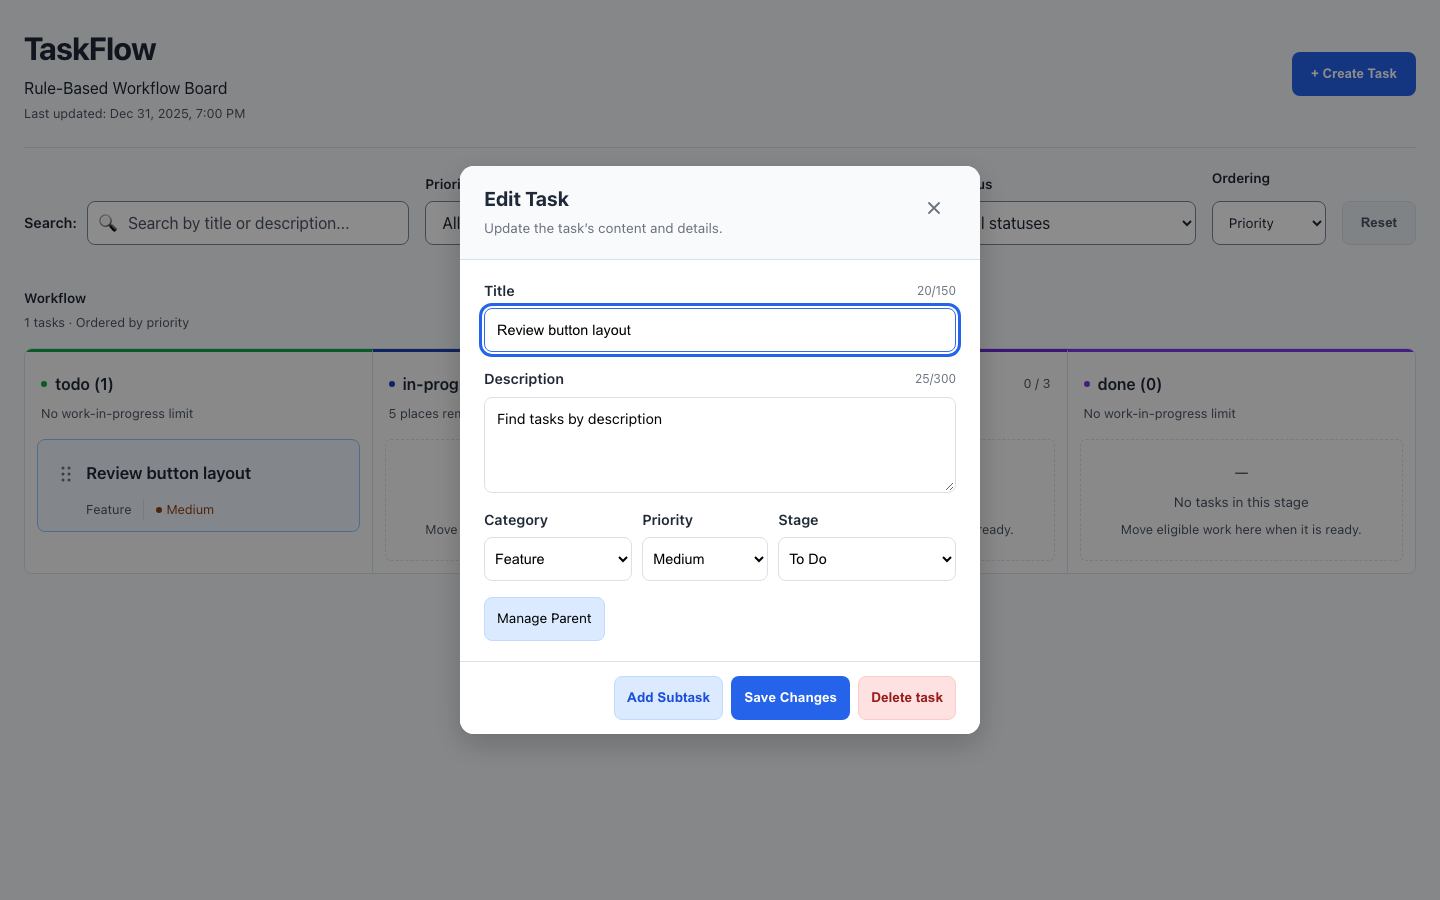
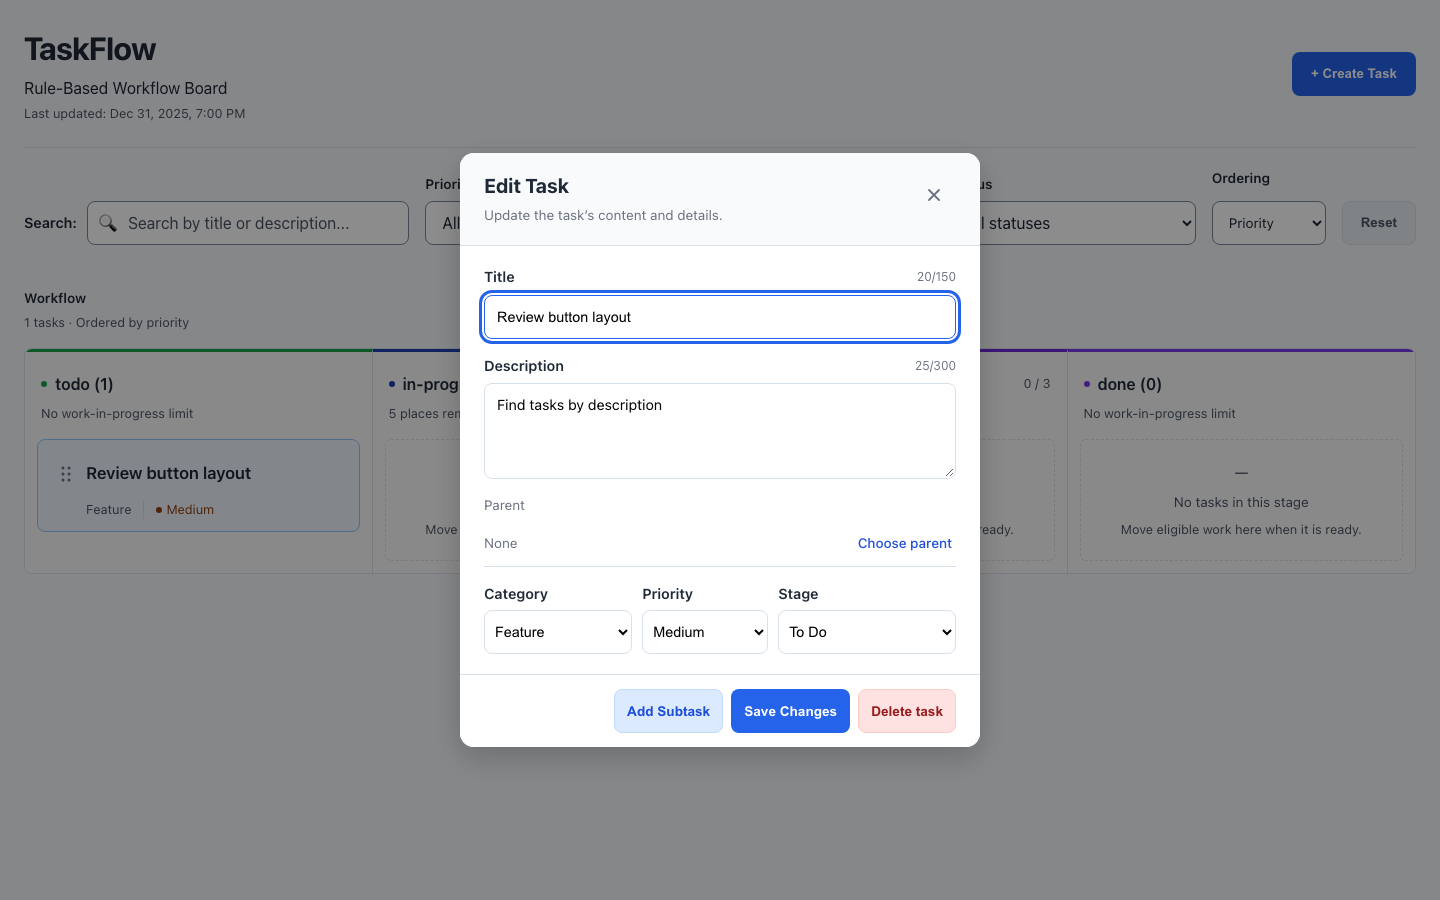
polish: use compact parent actions and preserve linked chip

diff --git a/e2e/details.spec.ts b/e2e/details.spec.ts
@@ -19,9 +19,9 @@ test("read-first details, child management and guarded editing preserve saved wo
   await expect(detail.getByRole("button",{name:"Add SubTask to Release plan"})).toBeFocused();
   await detail.getByRole("button",{name:"Open subtask Review release"}).click();
   const child=page.getByRole("dialog",{name:"Review release",exact:true});
-  await expect(child.getByRole("button",{name:"Manage parent of Review release"})).toHaveCount(0);
+  await expect(child.getByRole("button",{name:"Change parent of Review release"})).toHaveCount(0);
   await child.getByRole("button",{name:"Edit task",exact:true}).click();
-  await page.getByRole("button",{name:"Manage parent of Review release"}).click();
+  await page.getByRole("button",{name:"Change parent of Review release"}).click();
   await page.getByLabel("Parent",{exact:true}).selectOption("");await page.keyboard.press("Escape");
   await expect(page.getByRole("dialog",{name:"Discard Relationship Changes?"})).toBeVisible();
   await page.getByRole("button",{name:"Keep Editing",exact:true}).click();
@@ -117,13 +117,13 @@ test("parent context is consistent and editor stage changes move saved work with
   const badge=page.getByRole("button",{name:"Open parent Consistent parent",exact:true});
   await expect(badge).toHaveClass("editor-parent-pill");
   expect(await badge.evaluate(node=>!!node.closest(".task-parent-field"))).toBe(true);
-  await expect(page.getByRole("button",{name:"Manage parent of Consistent child",exact:true})).toHaveCount(0);
+  await expect(page.getByRole("button",{name:"Change parent of Consistent child",exact:true})).toHaveCount(0);
   const style=await badge.evaluate(node=>({background:getComputedStyle(node).backgroundColor,border:getComputedStyle(node).borderRadius}));
   await page.getByRole("button",{name:"Edit task",exact:true}).click();
   await expect(badge).toHaveClass("editor-parent-pill");
   expect(await badge.evaluate(node=>!!node.closest(".task-parent-field"))).toBe(true);
   expect(await badge.evaluate(node=>({background:getComputedStyle(node).backgroundColor,border:getComputedStyle(node).borderRadius}))).toEqual(style);
-  await expect(page.getByRole("button",{name:"Manage parent of Consistent child",exact:true})).toBeVisible();
+  await expect(page.getByRole("button",{name:"Change parent of Consistent child",exact:true})).toBeVisible();
   const editor=page.getByRole("dialog",{name:"Edit SubTask",exact:true});
   await editor.getByLabel("Title",{exact:true}).fill("Edited consistent child");
   await editor.getByLabel("Stage",{exact:true}).selectOption("in-progress");

diff --git a/src/components/TaskDetails/TaskDetails.test.tsx b/src/components/TaskDetails/TaskDetails.test.tsx
@@ -53,9 +53,9 @@ it("returns child creation to updated details, retains focus and protects relati
   expect(screen.getByRole("dialog",{name:"Release plan"})).toHaveTextContent("0 of 2 subtasks complete");
   expect(screen.getByRole("button",{name:"Add SubTask to Release plan"})).toHaveFocus();
   await user.click(screen.getByRole("button",{name:"Open subtask New child"}));
-  expect(screen.queryByRole("button",{name:"Manage parent of New child"})).not.toBeInTheDocument();
+  expect(screen.queryByRole("button",{name:"Change parent of New child"})).not.toBeInTheDocument();
   await user.click(screen.getByRole("button",{name:"Edit task"}));
-  await user.click(screen.getByRole("button",{name:"Manage parent of New child"}));
+  await user.click(screen.getByRole("button",{name:"Change parent of New child"}));
   await user.selectOptions(screen.getByLabelText("Parent"),"");await user.keyboard("{Escape}");
   expect(screen.getByRole("dialog",{name:"Discard Relationship Changes?"})).toBeInTheDocument();
   const leaving = new Event("beforeunload",{cancelable:true});window.dispatchEvent(leaving);expect(leaving.defaultPrevented).toBe(true);
@@ -128,11 +128,11 @@ it("uses one parent badge in details and editing and moves from the editor witho
   const badge=screen.getByRole("button",{name:"Open parent Release plan"});
   expect(badge).toHaveClass("editor-parent-pill");
   expect(badge.closest(".task-parent-field")).not.toBeNull();
-  expect(screen.queryByRole("button",{name:"Manage parent of Review release"})).not.toBeInTheDocument();
+  expect(screen.queryByRole("button",{name:"Change parent of Review release"})).not.toBeInTheDocument();
   await user.click(screen.getByRole("button",{name:"Edit task"}));
   expect(screen.getByRole("button",{name:"Open parent Release plan"})).toHaveClass("editor-parent-pill");
   expect(screen.getByRole("button",{name:"Open parent Release plan"}).closest(".task-parent-field")).not.toBeNull();
-  expect(screen.getByRole("button",{name:"Manage parent of Review release"})).toBeInTheDocument();
+  expect(screen.getByRole("button",{name:"Change parent of Review release"})).toBeInTheDocument();
   await user.type(screen.getByLabelText("Title")," draft");
   await user.selectOptions(screen.getByLabelText("Stage"),"in-progress");
   expect(screen.getByLabelText("Title")).toHaveValue("Review release draft");

diff --git a/src/components/TaskForm/TaskForm.tsx b/src/components/TaskForm/TaskForm.tsx
@@ -269,7 +269,11 @@ export default function TaskForm({
             </small>
           </Field>
 
-          {linkedParent && <TaskParentLink parent={linkedParent} onOpen={handleOpenTask} action={currentTask && children.length === 0 ? <button type="button" className="editor-manage-parent" onClick={() => setShowRelationshipForm(true)} aria-label={`Manage parent of ${currentTask.title}`}>Manage Parent</button> : undefined}/>}
+          {linkedParent && <TaskParentLink parent={linkedParent} onOpen={handleOpenTask} action={currentTask && children.length === 0 ? <button type="button" className="parent-field-action" onClick={() => setShowRelationshipForm(true)} aria-label={`Change parent of ${currentTask.title}`}>Change</button> : undefined}/>}
+          {currentTask && !linkedParent && children.length === 0 && <div className="task-parent-field">
+            <span>Parent</span>
+            <div className="task-parent-row unlinked-parent-row"><span className="parent-field-empty">None</span><button type="button" className="parent-field-action" onClick={() => setShowRelationshipForm(true)} aria-label={`Choose parent for ${currentTask.title}`}>Choose parent</button></div>
+          </div>}
           <div className={`task-form-select-row${currentTask && onChangeStage ? " has-stage" : ""}`}>
             <div className="task-form-field">
               <label htmlFor={`${fieldPrefix}-category`}>Category</label>
@@ -346,10 +350,6 @@ export default function TaskForm({
               </details>
             </section>
           )}
-
-          {currentTask && !linkedParent && children.length === 0 && <div className="editor-related-actions">
-            <button type="button" className="editor-manage-parent" onClick={() => setShowRelationshipForm(true)} aria-label={`Manage parent of ${currentTask.title}`}>Manage Parent</button>
-          </div>}
 
           {currentTask && currentTask.subtasks.length > 0 && <details className="task-editor-subtasks"><summary>Legacy checklist ({currentTask.subtasks.length})</summary><SubtaskList task={currentTask} dispatch={dispatch} allowCreate={currentTask.status !== "done"}/></details>}
 

diff --git a/src/App.relationships.test.tsx b/src/App.relationships.test.tsx
@@ -119,14 +119,14 @@ it("excludes invalid parents from management and persists valid reassignment wit
   const user = userEvent.setup(); render(<App />);
   const original = localStorage.getItem(STORAGE_KEY);
   await user.click(screen.getByRole("button", { name: "Open task Other" })); await user.click(screen.getByRole("button", { name: "Edit task" }));
-  await user.click(screen.getByRole("button", { name: "Manage parent of Other" }));
+  await user.click(screen.getByRole("button", { name: "Choose parent for Other" }));
   const parentSelect = within(screen.getByRole("dialog", { name: "Manage Parent" })).getByLabelText("Parent");
   expect(within(parentSelect).getByRole("option", { name: "Parent" })).toBeInTheDocument();
   expect(within(parentSelect).queryByRole("option", { name: "Child" })).not.toBeInTheDocument();
   expect(within(parentSelect).queryByRole("option", { name: "Other" })).not.toBeInTheDocument();
   await user.keyboard("{Escape}"); await user.keyboard("{Escape}");
   await user.click(screen.getByRole("button", { name: "Open task Child" })); await user.click(screen.getByRole("button", { name: "Edit task" }));
-  await user.click(screen.getByRole("button", { name: "Manage parent of Child" }));
+  await user.click(screen.getByRole("button", { name: "Change parent of Child" }));
   const dialog = within(screen.getByRole("dialog", { name: "Manage Parent" }));
   const select = dialog.getByLabelText("Parent");
   expect(within(select).queryByRole("option", { name: "Child" })).not.toBeInTheDocument();

diff --git a/src/components/Board/Board.accessibility.test.tsx b/src/components/Board/Board.accessibility.test.tsx
@@ -54,7 +54,7 @@ it('uses unique nested field IDs and returns child actions to useful parent cont
  const title=screen.getByRole('button',{name:'Open subtask Child work'});await user.click(title);await user.type(within(screen.getByRole('dialog',{name:'Edit SubTask'})).getByLabelText('Description'),' updated');await user.click(screen.getByRole('button',{name:'Save Changes'}));expect(title).toHaveFocus();
 });
 it('contains relationship focus and restores its manage-parent trigger', async () => {
- const user=userEvent.setup();render(<Harness />);await user.click(screen.getByRole('button',{name:'Open task Child work'})); await user.click(screen.getByRole("button", { name: "Edit task" }));const manage=screen.getByRole('button',{name:'Manage parent of Child work'});await user.click(manage);
+ const user=userEvent.setup();render(<Harness />);await user.click(screen.getByRole('button',{name:'Open task Child work'})); await user.click(screen.getByRole("button", { name: "Edit task" }));const manage=screen.getByRole('button',{name:'Change parent of Child work'});await user.click(manage);
  const dialog=screen.getByRole('dialog',{name:'Manage Parent'});expect(within(dialog).getByLabelText('Parent')).toHaveFocus();expect(dialog).toHaveAccessibleDescription(/Detaching keeps/);await user.keyboard('{Escape}');expect(manage).toHaveFocus();
 });
 it('returns deletion cancellation to its opener and deletion to a surviving task', async () => {

diff --git a/src/components/Board/Board.test.tsx b/src/components/Board/Board.test.tsx
@@ -163,7 +163,7 @@ describe("linked task board interactions", () => {
     render(<Harness initialBoard={makeBoard([parent, child, other])} />);
     await user.click(card("Child work").getByRole("button", { name: "Open task Child work" })); await user.click(screen.getByRole("button", { name: "Edit task" }));
     await user.type(screen.getByLabelText("Title"), " draft");
-    const manage = screen.getByRole("button", { name: "Manage parent of Child work" });
+    const manage = screen.getByRole("button", { name: "Change parent of Child work" });
     manage.focus();
     await user.keyboard("{Enter}");
     const selector = screen.getByLabelText("Parent", { selector: "select" });
@@ -174,7 +174,7 @@ describe("linked task board interactions", () => {
     await user.keyboard("{Enter}");
     expect(screen.getByRole("button", { name: "Open parent Other parent" })).toBeInTheDocument();
     expect(screen.getByLabelText("Title")).toHaveValue("Child work draft");
-    await user.click(screen.getByRole("button", { name: "Manage parent of Child work" }));
+    await user.click(screen.getByRole("button", { name: "Change parent of Child work" }));
     await user.selectOptions(screen.getByLabelText("Parent", { selector: "select" }), "");
     await user.click(screen.getByRole("button", { name: "Save Relationship" }));
     expect(screen.getByRole("dialog", { name: "Edit Task" })).toBeInTheDocument();

diff --git a/src/components/TaskParentLink/TaskParentLink.css b/src/components/TaskParentLink/TaskParentLink.css
@@ -37,4 +37,10 @@
 
 .task-parent-row { display: flex; align-items: center; gap: 8px; max-width: 100%; min-width: 0; }
 .task-parent-row .editor-parent-pill { flex: 0 1 auto; }
-.task-parent-row .editor-manage-parent { flex-shrink: 0; white-space: nowrap; }
+/* Relationship editing stays beside the parent value, outside the action footer. */
+.task-parent-row.has-parent-action, .unlinked-parent-row { width: 100%; justify-content: space-between; }
+.unlinked-parent-row { min-height: var(--size-touch-target); border-bottom: 1px solid var(--color-border); }
+.parent-field-empty { color: var(--color-text-muted); font-size: var(--font-size-support); }
+.parent-field-action { flex-shrink: 0; min-height: var(--size-touch-target); min-width: var(--size-touch-target); padding: 0 4px; border: 0; border-radius: var(--radius-compact); background: transparent; color: var(--color-action-subtle-text); font: inherit; font-size: var(--font-size-support); font-weight: var(--font-weight-medium); white-space: nowrap; cursor: pointer; }
+.parent-field-action:hover { text-decoration: underline; }
+.parent-field-action:focus-visible { outline: var(--focus-ring); outline-offset: var(--focus-offset); box-shadow: var(--focus-shadow); }

diff --git a/src/components/TaskParentLink/TaskParentLink.tsx b/src/components/TaskParentLink/TaskParentLink.tsx
@@ -2,7 +2,7 @@ import type { ReactNode } from "react";
 import type { Task } from "../../domain/task/Task";
 import "./TaskParentLink.css";
 export default function TaskParentLink({ parent, onOpen, action }: { parent: Task; onOpen: (task: Task) => void; action?: ReactNode }) {
-  return <div className="task-parent-field"><span>Parent</span><div className="task-parent-row"><button type="button" className="editor-parent-pill" onClick={() => onOpen(parent)} aria-label={`Open parent ${parent.title}`} title={`Parent: ${parent.title}`}>
+  return <div className="task-parent-field"><span>Parent</span><div className={`task-parent-row${action ? " has-parent-action" : ""}`}><button type="button" className="editor-parent-pill" onClick={() => onOpen(parent)} aria-label={`Open parent ${parent.title}`} title={`Parent: ${parent.title}`}>
     <svg className={`parent-pill-icon${parent.status === "done" ? " is-complete" : ""}`} width="18" height="18" viewBox="0 0 18 18" aria-hidden="true"><circle cx="9" cy="9" r="7" fill="none" stroke="currentColor" strokeWidth="1.8"/><circle cx="9" cy="9" r="1.5" fill="currentColor"/></svg>
     <span className="parent-pill-title">{parent.title}</span>
   </button>{action}</div></div>;

diff --git a/src/components/TaskForm/TaskForm.css b/src/components/TaskForm/TaskForm.css
@@ -54,20 +54,6 @@
   background: var(--color-stage-done-surface);
 }
 
-.editor-manage-parent {
-  min-height: var(--size-touch-target);
-  justify-self: start;
-  border: 1px solid var(--color-action-subtle-border);
-  border-radius: var(--radius-control);
-  padding: 6px 12px;
-  background: var(--color-action-subtle);
-  color: #000;
-  font: inherit;
-  font-size: var(--font-size-support);
-  cursor: pointer;
-}
-.editor-manage-parent:hover { background: var(--color-action-subtle-hover); }
-
 .task-editor-subtasks {
   padding: var(--space-3);
   border: 1px solid var(--color-border);
@@ -199,6 +185,3 @@
   .task-editor-dialog .has-stage select { font-size: .8rem; padding: 8px 2px; }
   .task-editor-dialog .create-task-actions { gap: 6px; flex-wrap: nowrap; }
 }
-
-.task-editor-dialog .editor-related-actions { display: flex; align-items: center; gap: 8px; min-width: 0; }
-.task-editor-dialog .editor-related-actions > button { flex: 0 1 auto; width: auto; min-width: 0; padding: 8px 12px; font-size: var(--font-size-support); white-space: nowrap; }

diff --git a/docs/v2-task-details.md b/docs/v2-task-details.md
@@ -117,3 +117,11 @@ All 46 production desktop/mobile browser checks passed on the final build. Exist
 Create New Task and Add SubTask now use the header × to exit, matching the editors. Their footer contains only the Create action. Keep Editing / Discard still protects unsaved input, and Escape follows the same guard. Confirmation and relationship dialogs retain their existing actions.
 
 Verification before pushing: all 467 tests in 43 files passed with unchanged timeouts/assertions; lint, strict TypeScript and production build passed. Four focused desktop/mobile Chromium journeys passed. Additional production checks at 1440/390/320px verified both creation footers contain only Create, Keep Editing preserves the draft, Discard closes it and focus returns to the opener. [Desktop Add SubTask](images/v2-task-details/desktop-subtask-create.png) · [Mobile Add SubTask](images/v2-task-details/mobile-subtask-create.png). Creation screenshots were refreshed. Manage Parent placement is unchanged pending the next design decision.
+
+## Approved compact Parent field
+
+Owner approved the Parent-field mockup with one exception: linked subtasks retain the existing blue parent-name chip and circle icon. Edit SubTask pairs that unchanged navigation chip with a small Change text action. Eligible tasks without a parent show Parent / None with Choose parent in the same position above metadata. The large standalone Manage Parent button is removed. Existing parent eligibility, relationship save/discard behavior and footer actions remain unchanged; details and creation retain the original parent chip without a management action.
+
+Verification: 467/467 unit/component/integration tests in 43 files passed before pushing, with unchanged timeouts/assertions. Lint, strict TypeScript and production build passed. Production checks at 1440/390/320px verified choosing a parent, changing/detaching it, original blue chip/icon, editor-only relationship actions, aligned 44px targets and no overflow.
+
+Final verification: all 46 desktop/mobile production browser checks passed after the Choose/Change accessible-label update. The 50 affected application/relationship/accessibility tests also passed with the new labels. Both labels include their visible text for speech/assistive navigation. Screenshots show the approved original parent chip with the compact action, plus None / Choose parent for unlinked tasks.
